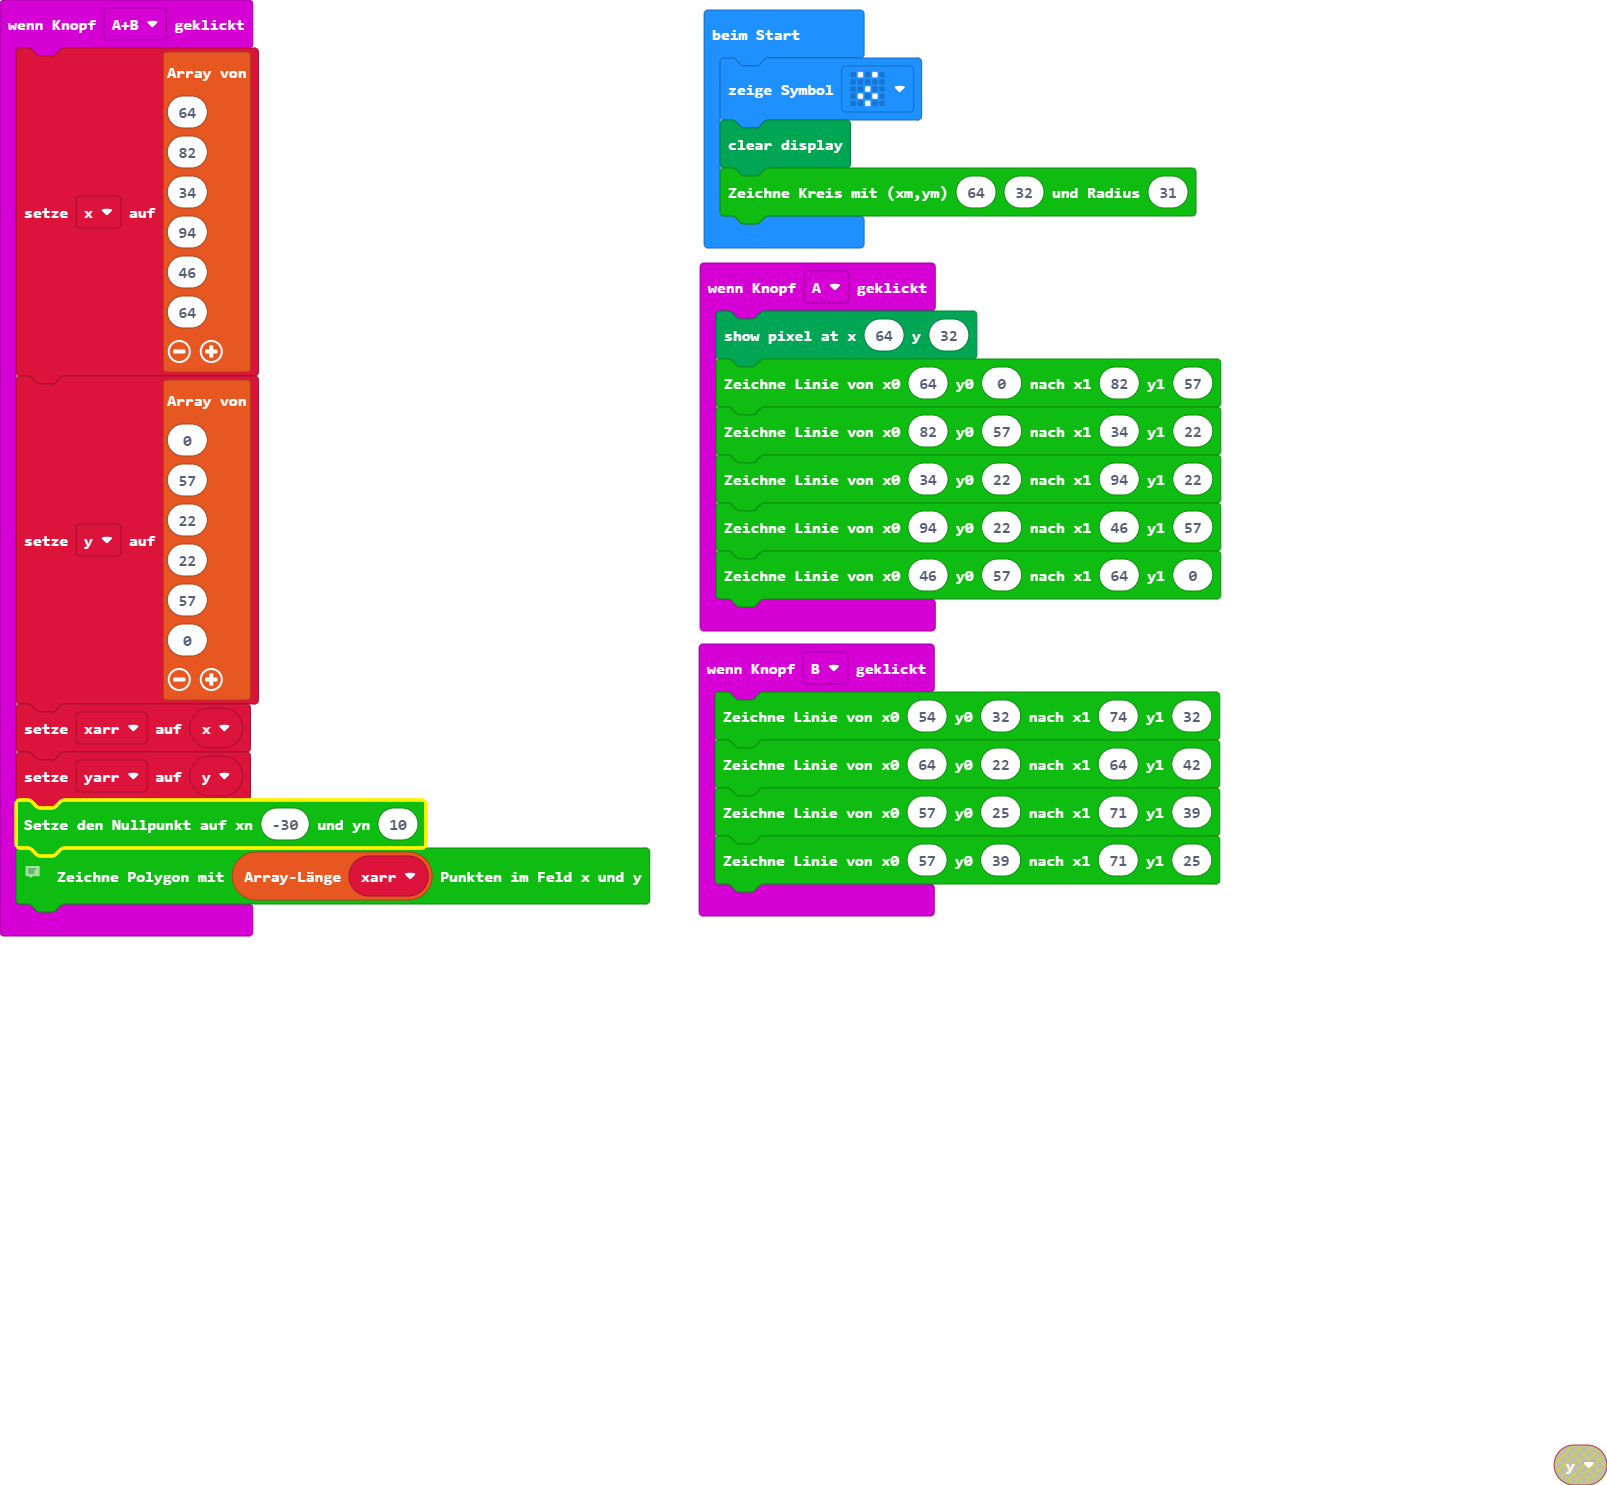
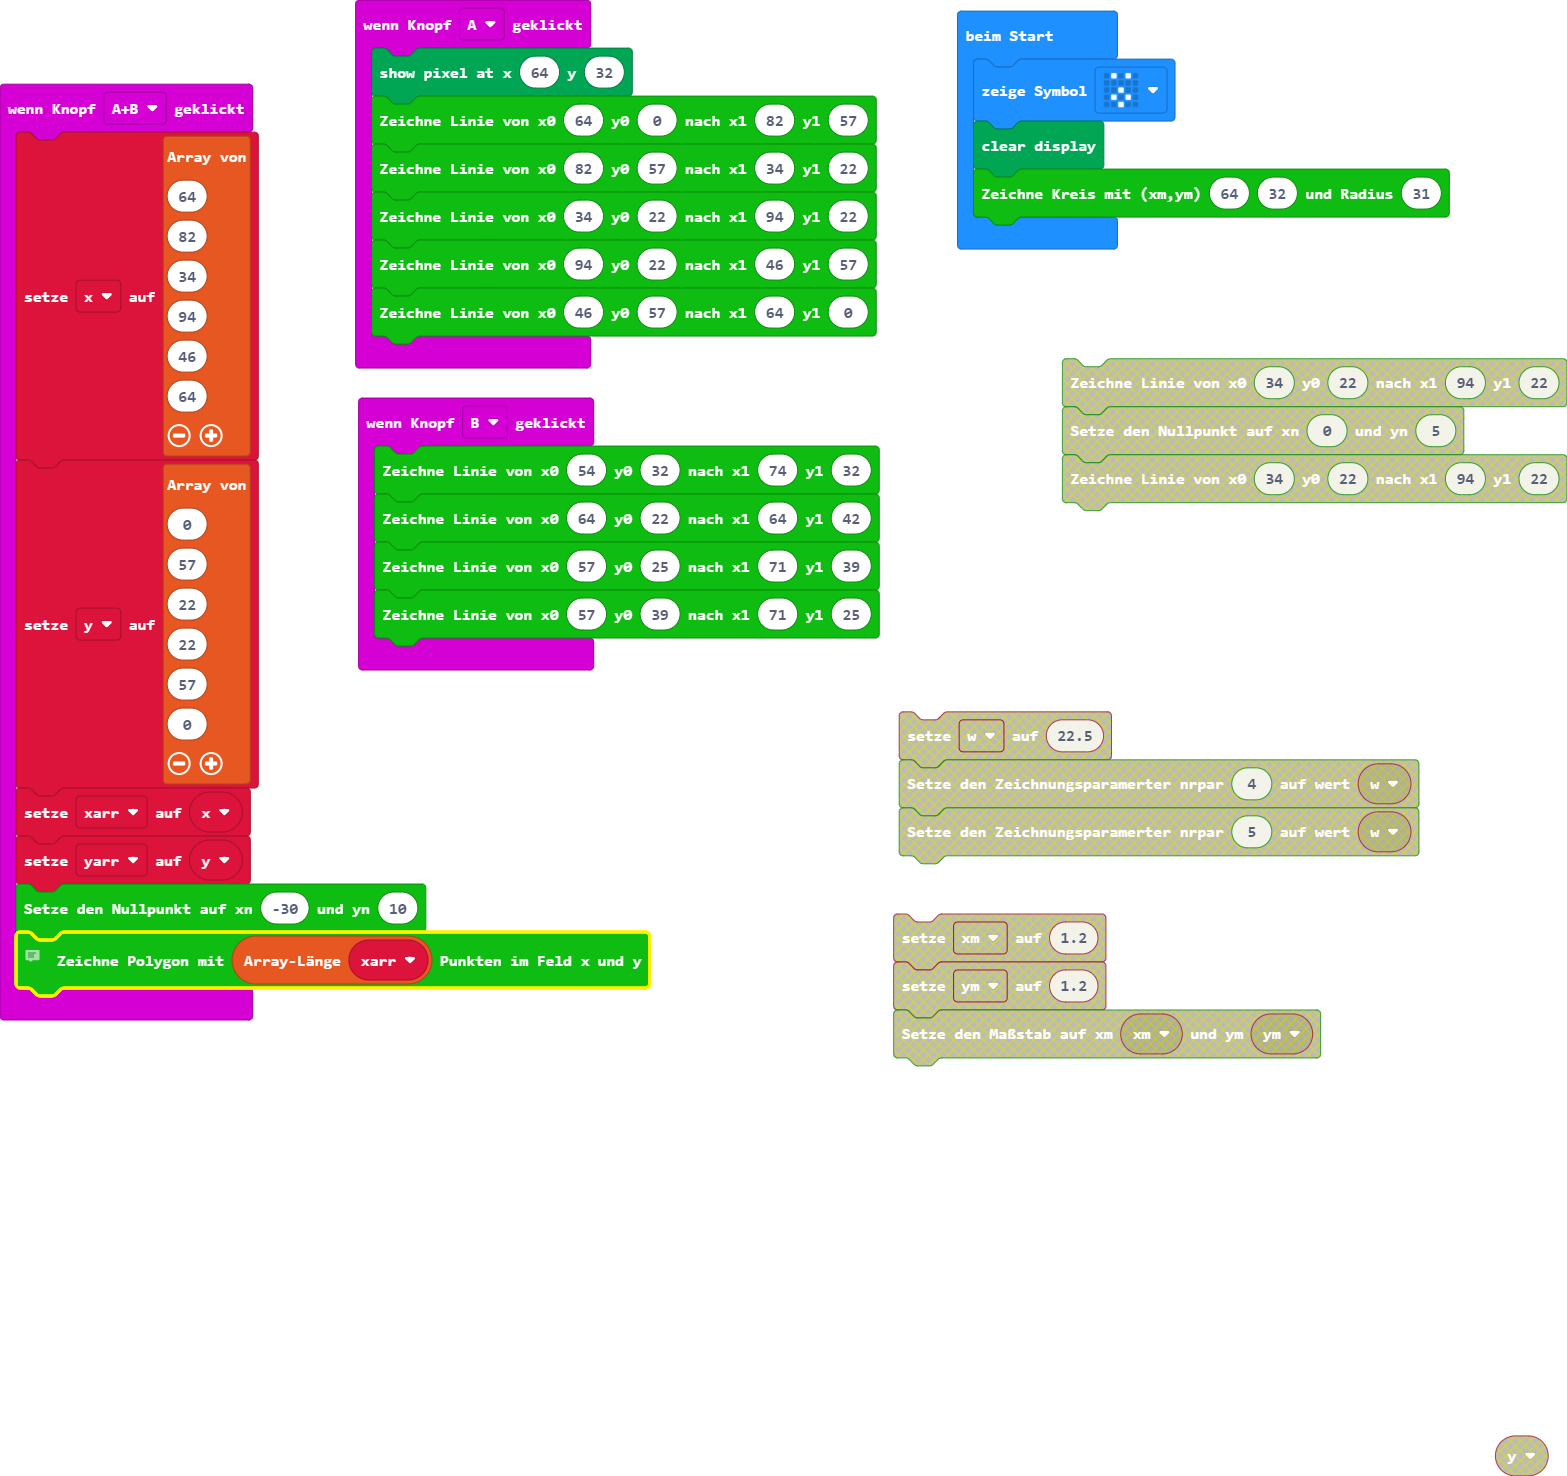
Aktualisiere main.blocks, custom.ts

diff --git a/custom.ts b/custom.ts
@@ -10,15 +10,16 @@
 
 //% weight=100 color=#0fbc11 icon="\uf14b" block="128x64 Display_z"
 namespace oled_z {
-    let zpar: number[] = [];
-    zpar[0] =   1;   // Maßstab x-Achse
-    zpar[1] =   1;   // Maßstab y-Achse
-    zpar[2] =   0;   // Nullpunt x-Achse
-    zpar[3] =   0;   // Nullpunt y-Achse
-    zpar[4] =   0;   // Drehwinkel zu x-Achse
-    zpar[5] =   0;   // Drehwinkel zu y-Achse
+    let zpar = [1.0,1.0,0.0,0.0,0.0,0.0,1.1];
+/*
+    zpar[0] = 1.0;   // Maßstab x-Achse
+    zpar[1] = 1.0;   // Maßstab y-Achse
+    zpar[2] = 0.0;   // Nullpunt x-Achse
+    zpar[3] = 0.0;   // Nullpunt y-Achse
+    zpar[4] = 0.0;   // Drehwinkel zu x-Achse
+    zpar[5] = 0.0;   // Drehwinkel zu y-Achse
     zpar[6] = 1.1;   // Strichart . Werkzeugnummer (Strichbreite)
-
+*/
     let lx: number
     let ly: number
     let ix:number
@@ -57,7 +58,7 @@ namespace oled_z {
     //% nrpar.min=0 nrpar.max=6
     //% wert.min=0 wert.max=6
     //% weight=100 blockGap=8
-    export function zparneu(nrpar:number, wert:number){
+    export function zparneu(nrpar:number, wert:any){
         if (nrpar <= 0 && nrpar >6) return
         zpar[nrpar]=wert
     }
@@ -69,7 +70,7 @@ namespace oled_z {
     //% block="Setze den Maßstab auf xm %XM und ym %YM"
     //% inlineInputMode=inline
     //% weight=90 blockGap=8
-    export function zmassb(xm:number, ym:number){
+    export function zmassb(xm:any, ym:any){
         zparneu(0,xm)
         zparneu(1,ym)
     }
@@ -93,7 +94,7 @@ namespace oled_z {
     //% block="Setze den Drehwinkel für x-Achse %xw und y-Achse %yw"
     //% inlineInputMode=inline
     //% weight=70 blockGap=8
-    export function zdrehw(xw:number, yw:number) {
+    export function zdrehw(xw:any, yw:any) {
         zparneu(4, xw)
         zparneu(5, yw)
     }
